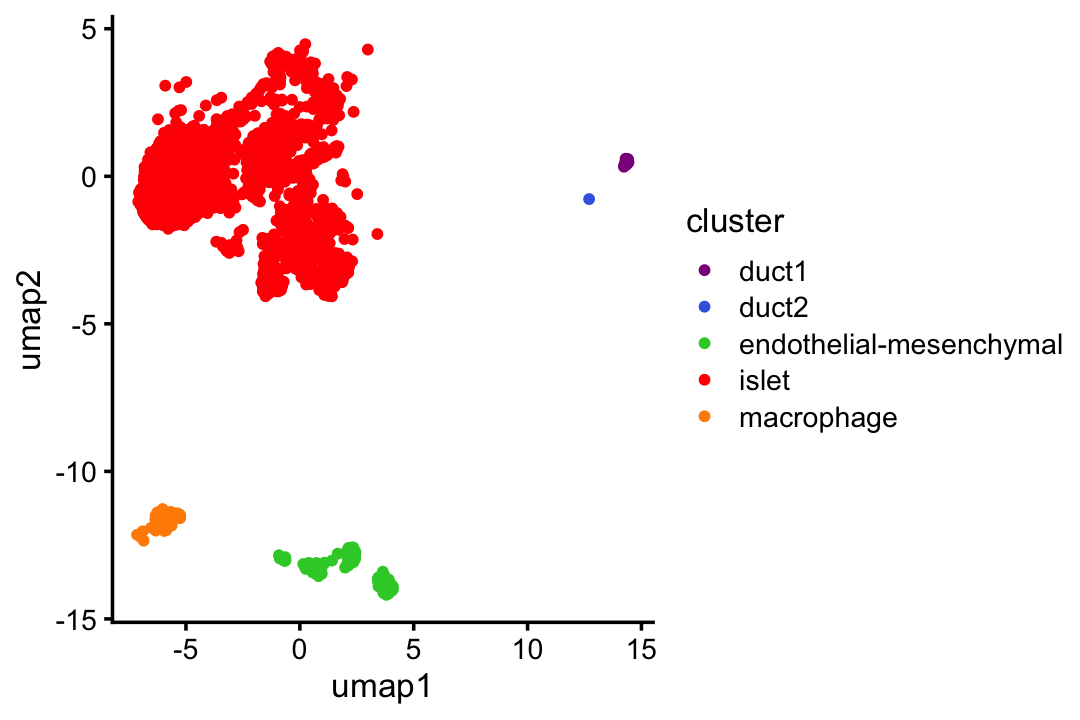
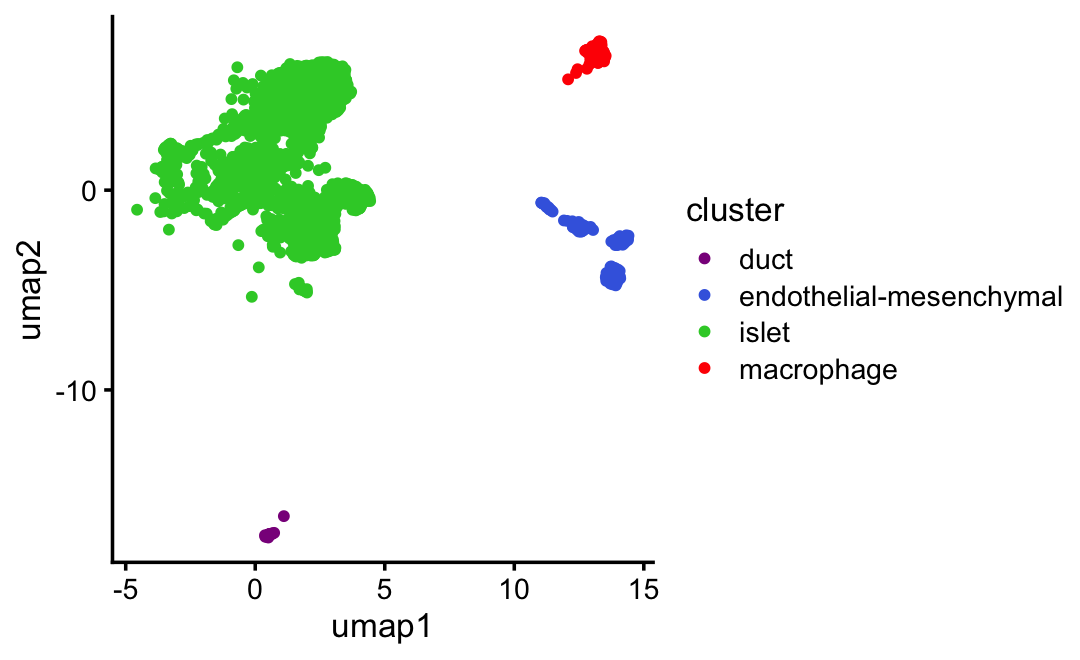
Ran wflow_publish("pancreas_cytokine.Rmd").

diff --git a/docs/pancreas_cytokine.html b/docs/pancreas_cytokine.html
@@ -301,7 +301,7 @@ class="glyphicon glyphicon-ok text-success" aria-hidden="true"></span>
 <div class="tab-content">
 <div id="summary" class="tab-pane fade in active">
 <p>
-<strong>Last updated:</strong> 2025-06-06
+<strong>Last updated:</strong> 2025-06-10
 </p>
 <p>
 <strong>Checks:</strong> <span
@@ -433,15 +433,15 @@ project makes it easier to run your code on other machines.</p>
 <div class="panel panel-default">
 <div class="panel-heading">
 <p class="panel-title">
-<a data-toggle="collapse" data-parent="#workflowr-checks" href="#strongRepositoryversionstrongahrefhttpsgithubcomstephenslabsinglecelljamboreetree8168143d10ffdd7cfdcafda94affc890f8694d9dtargetblank8168143a">
+<a data-toggle="collapse" data-parent="#workflowr-checks" href="#strongRepositoryversionstrongahrefhttpsgithubcomstephenslabsinglecelljamboreetree5249817791516a7b04d8a431b008b7bd6df82610targetblank5249817a">
 <span class="glyphicon glyphicon-ok text-success"
 aria-hidden="true"></span> <strong>Repository version:</strong>
-<a href="https://github.com/stephenslab/single-cell-jamboree/tree/8168143d10ffdd7cfdcafda94affc890f8694d9d" target="_blank">8168143</a>
+<a href="https://github.com/stephenslab/single-cell-jamboree/tree/5249817791516a7b04d8a431b008b7bd6df82610" target="_blank">5249817</a>
 </a>
 </p>
 </div>
 <div
[2 lines of base64/hex data omitted]
 class="panel-collapse collapse">
 <div class="panel-body">
 <p>
@@ -451,7 +451,7 @@ reproducibility.
 </p>
 <p>
 The results in this page were generated with repository version
-<a href="https://github.com/stephenslab/single-cell-jamboree/tree/8168143d10ffdd7cfdcafda94affc890f8694d9d" target="_blank">8168143</a>.
+<a href="https://github.com/stephenslab/single-cell-jamboree/tree/5249817791516a7b04d8a431b008b7bd6df82610" target="_blank">5249817</a>.
 See the <em>Past versions</em> tab to see a history of the changes made
 to the R Markdown and HTML files.
 </p>
@@ -468,7 +468,9 @@ were generated:
 Untracked files:
     Untracked:  analysis/lps_cache/
     Untracked:  analysis/mcf7_cache/
+    Untracked:  analysis/pancreas_cytokine_S1_factors_cache/
     Untracked:  analysis/temp2.R
+    Untracked:  analysis/temp3.R
     Untracked:  data/GSE132188_adata.h5ad.h5
     Untracked:  data/GSE183010/
     Untracked:  data/Immune_ALL_human.h5ad
@@ -477,7 +479,7 @@ Untracked files:
     Untracked:  data/pancreas_endocrine_alldays.h5ad
 
 Unstaged changes:
-    Modified:   analysis/lps.Rmd
+    Modified:   analysis/pancreas_cytokine_S1_factors.Rmd
 
 </code></pre>
 <p>
@@ -523,6 +525,58 @@ Message
 </tr>
 </thead>
 <tbody>
+<tr>
+<td>
+Rmd
+</td>
+<td>
+<a href="https://github.com/stephenslab/single-cell-jamboree/blob/5249817791516a7b04d8a431b008b7bd6df82610/analysis/pancreas_cytokine.Rmd" target="_blank">5249817</a>
+</td>
+<td>
+Peter Carbonetto
+</td>
+<td>
+2025-06-10
+</td>
+<td>
+wflow_publish("pancreas_cytokine.Rmd", verbose = TRUE)
+</td>
+</tr>
+<tr>
+<td>
+Rmd
+</td>
+<td>
+<a href="https://github.com/stephenslab/single-cell-jamboree/blob/62b29346d015e2c1e651fbcfa785866f6dece3fc/analysis/pancreas_cytokine.Rmd" target="_blank">62b2934</a>
+</td>
+<td>
+Peter Carbonetto
+</td>
+<td>
+2025-06-10
+</td>
+<td>
+Added steps to filter out mitochondrial and ribosomal protein genes from
+the pancreas_cytokine data set.
+</td>
+</tr>
+<tr>
+<td>
+html
+</td>
+<td>
+<a href="https://rawcdn.githack.com/stephenslab/single-cell-jamboree/5941ced2fc05b6379038fc30c28b6fdf94da761c/docs/pancreas_cytokine.html" target="_blank">5941ced</a>
+</td>
+<td>
+Peter Carbonetto
+</td>
+<td>
+2025-06-06
+</td>
+<td>
+Added a umap plot to the pancreas_cytokine analysis.
+</td>
+</tr>
 <tr>
 <td>
 Rmd
@@ -819,7 +873,8 @@ library(tools)
 library(rsvd)
 library(uwot)
 library(ggplot2)
-library(cowplot)</code></pre>
+library(cowplot)
+# library(MatrixSparse)</code></pre>
 <p>Set the seed for reproducibility:</p>
 <pre class="r"><code>set.seed(1)</code></pre>
 <p>Import the count data from the “matrix market” format:</p>
@@ -990,6 +1045,15 @@ Peter Carbonetto
 </table>
 </div>
 </div>
+<p>It seems that it might further be beneficial for some of the matrix
+factorization analyses to remove the mitochondrial and ribosomal protein
+genes, particularly since these genes are unlikely to be interesting.
+This code is adapted from <a
+href="https://nbisweden.github.io/workshop-scRNAseq/labs/seurat/seurat_01_qc.html">here</a>.</p>
+<pre class="r"><code>j &lt;- which(!(grepl(&quot;^mt-&quot;,genes$symbol) |
+             grepl(&quot;^Rp[sl]&quot;,genes$symbol)))
+genes  &lt;- genes[j,]
+counts &lt;- counts[,j]</code></pre>
 <p>Finally, a bunch of genes are not expressed in any cells. Let’s
 remove those as well:</p>
 <pre class="r"><code>x      &lt;- colSums(counts &gt; 0)
@@ -1003,9 +1067,9 @@ nrow(genes)
 dim(counts)
 mean(counts &gt; 0)
 # [1] 9354
-# [1] 21906
-# [1]  9354 21906
-# [1] 0.2065823</code></pre>
+# [1] 21793
+# [1]  9354 21793
+# [1] 0.2031886</code></pre>
 <p>Now let’s generate a 2-d nonlinear embedding of the cells using
 t-SNE. First, transform the counts into “shifted log counts”:</p>
 <pre class="r"><code>a &lt;- 1
@@ -1027,13 +1091,12 @@ samples$cluster[x &gt; -3 &amp; y &gt; 5]   &lt;- &quot;islet1&quot;
 samples &lt;- transform(samples,cluster = factor(cluster))</code></pre>
 <p>UMAP plot by cluster:</p>
 <pre class="r"><code>cluster_colors &lt;- c(&quot;darkmagenta&quot;,&quot;royalblue&quot;,&quot;limegreen&quot;,&quot;red&quot;,&quot;darkorange&quot;)
-samples$cluster                   &lt;- &quot;islet&quot;      # Gcg, Sst, Ins1, Ins2, Ppy, 
-                                                  # Mafa, Mafb
-samples$cluster[x &gt; 14]           &lt;- &quot;duct1&quot;      # Krt19
-samples$cluster[x &gt; 12 &amp; x &lt; 13]  &lt;- &quot;duct2&quot;      # Krt19
-samples$cluster[x &lt; -5 &amp; y &lt; -11] &lt;- &quot;macrophage&quot; # Ccr5
-samples$cluster[x &gt; -2 &amp; x &lt; 5 &amp; y &lt; -12] &lt;- 
+samples$cluster          &lt;- &quot;islet&quot; # Gcg, Sst, Ins1, Ins2, Ppy, # Mafa, Mafb
+samples$cluster[y &lt; -16] &lt;- &quot;duct&quot;  # Krt19
+samples$cluster[x &gt; 11 &amp; y &gt; 4] &lt;- &quot;macrophage&quot; # Ccr5
+samples$cluster[x &gt; 10 &amp; y &gt; -6 &amp; y &lt; 0] &lt;- 
   &quot;endothelial-mesenchymal&quot; # Esam, Pecam1, Col1a1
+samples &lt;- transform(samples,cluster = factor(cluster))
 ggplot(samples,aes(x = umap1,y = umap2,color = cluster)) +
   geom_point(size = 1) +
   scale_color_manual(values = cluster_colors) +
@@ -1063,6 +1126,17 @@ Date
 <tbody>
 <tr>
 <td>
+<a href="https://github.com/stephenslab/single-cell-jamboree/blob/5941ced2fc05b6379038fc30c28b6fdf94da761c/docs/figure/pancreas_cytokine.Rmd/umap-plot-1-1.png" target="_blank">5941ced</a>
+</td>
+<td>
+Peter Carbonetto
+</td>
+<td>
+2025-06-06
+</td>
+</tr>
+<tr>
+<td>
 <a href="https://github.com/stephenslab/single-cell-jamboree/blob/d9cd6103626726cebc5792a9195371527be6ecb5/docs/figure/pancreas_cytokine.Rmd/umap-plot-1-1.png" target="_blank">d9cd610</a>
 </td>
 <td>
@@ -1087,7 +1161,7 @@ Peter Carbonetto
 </table>
 </div>
 </div>
-<p>UMAP plot for <em>the first (untreated) mouse only:</em></p>
+<p>UMAP plot for the first (untreated) mouse only:</p>
 <pre class="r"><code>ggplot(subset(samples,mouse == &quot;S1&quot;),
        aes(x = umap1,y = umap2,color = cluster)) +
   geom_point(size = 1) +
@@ -1116,6 +1190,17 @@ Date
 </tr>
 </thead>
 <tbody>
+<tr>
+<td>
+<a href="https://github.com/stephenslab/single-cell-jamboree/blob/5941ced2fc05b6379038fc30c28b6fdf94da761c/docs/figure/pancreas_cytokine.Rmd/umap-plot-2-1.png" target="_blank">5941ced</a>
+</td>
+<td>
+Peter Carbonetto
+</td>
+<td>
+2025-06-06
+</td>
+</tr>
 <tr>
 <td>
 <a href="https://github.com/stephenslab/single-cell-jamboree/blob/af8e02d63c8bba11a42eaf2b2417b83cfaeef700/docs/figure/pancreas_cytokine.Rmd/umap-plot-2-1.png" target="_blank">af8e02d</a>
@@ -1159,7 +1244,7 @@ ggplot(samples,aes(x = umap1,y = umap2,color = mouse)) +
   geom_point(size = 1) +
   scale_color_manual(values = sample_colors) +
   theme_cowplot(font_size = 10)</code></pre>
-<p><img src="figure/pancreas_cytokine.Rmd/umap-plot-3-1.png" width="420" style="display: block; margin: auto;" /></p>
+<p><img src="figure/pancreas_cytokine.Rmd/umap-plot-3-1.png" width="390" style="display: block; margin: auto;" /></p>
 <p>
 <button type="button" class="btn btn-default btn-xs btn-workflowr btn-workflowr-fig" data-toggle="collapse" data-target="#fig-umap-plot-3-1">
 Past versions of umap-plot-3-1.png
